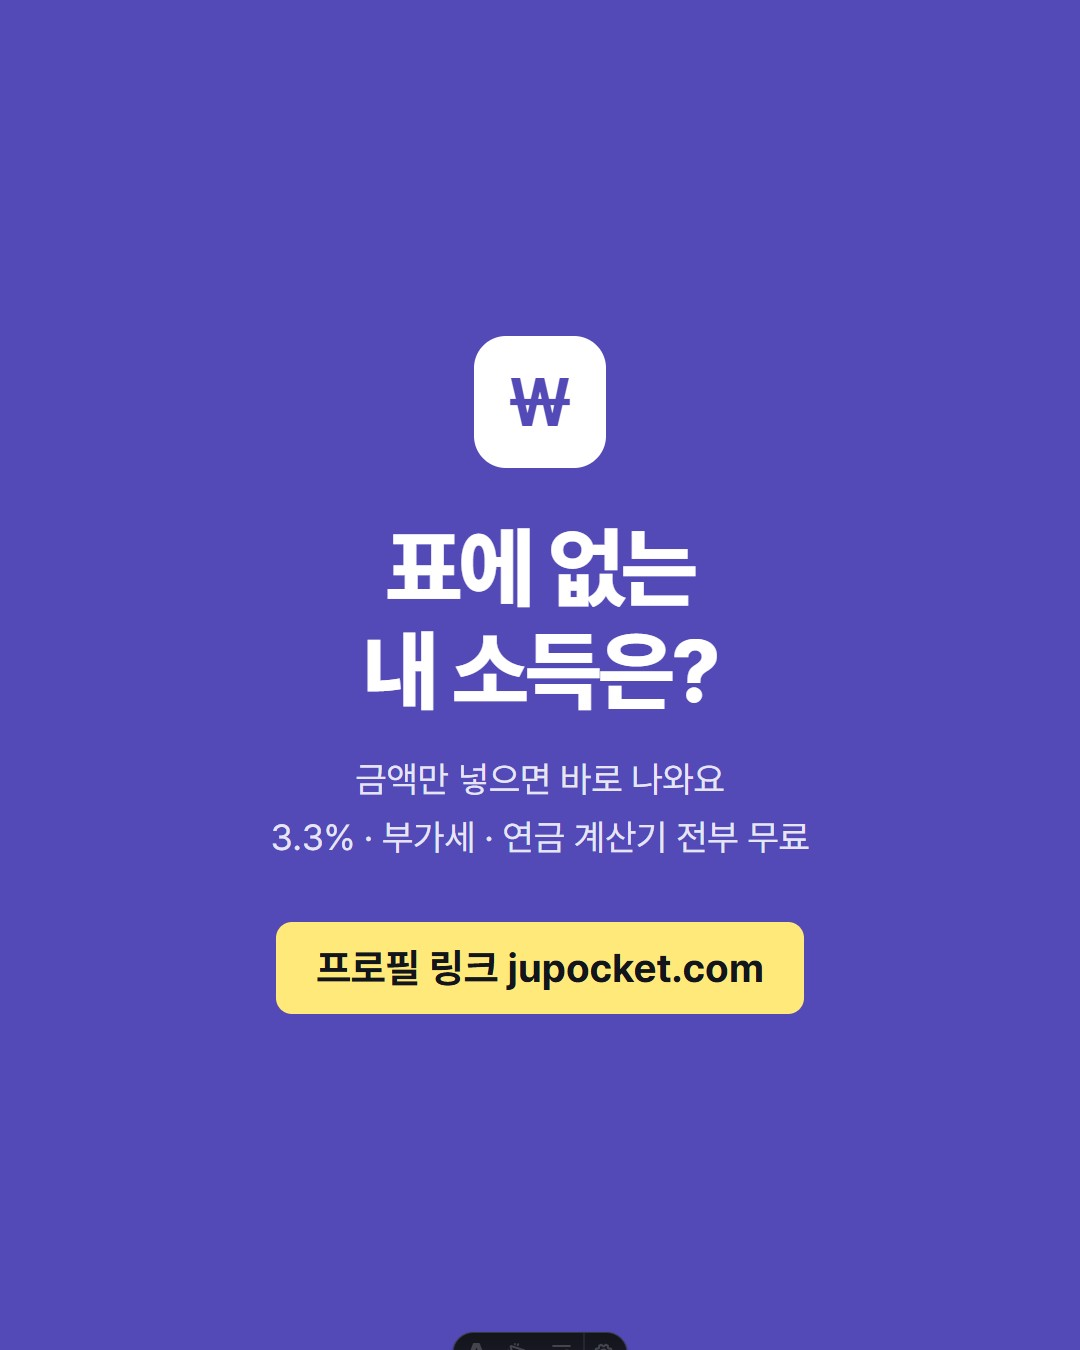
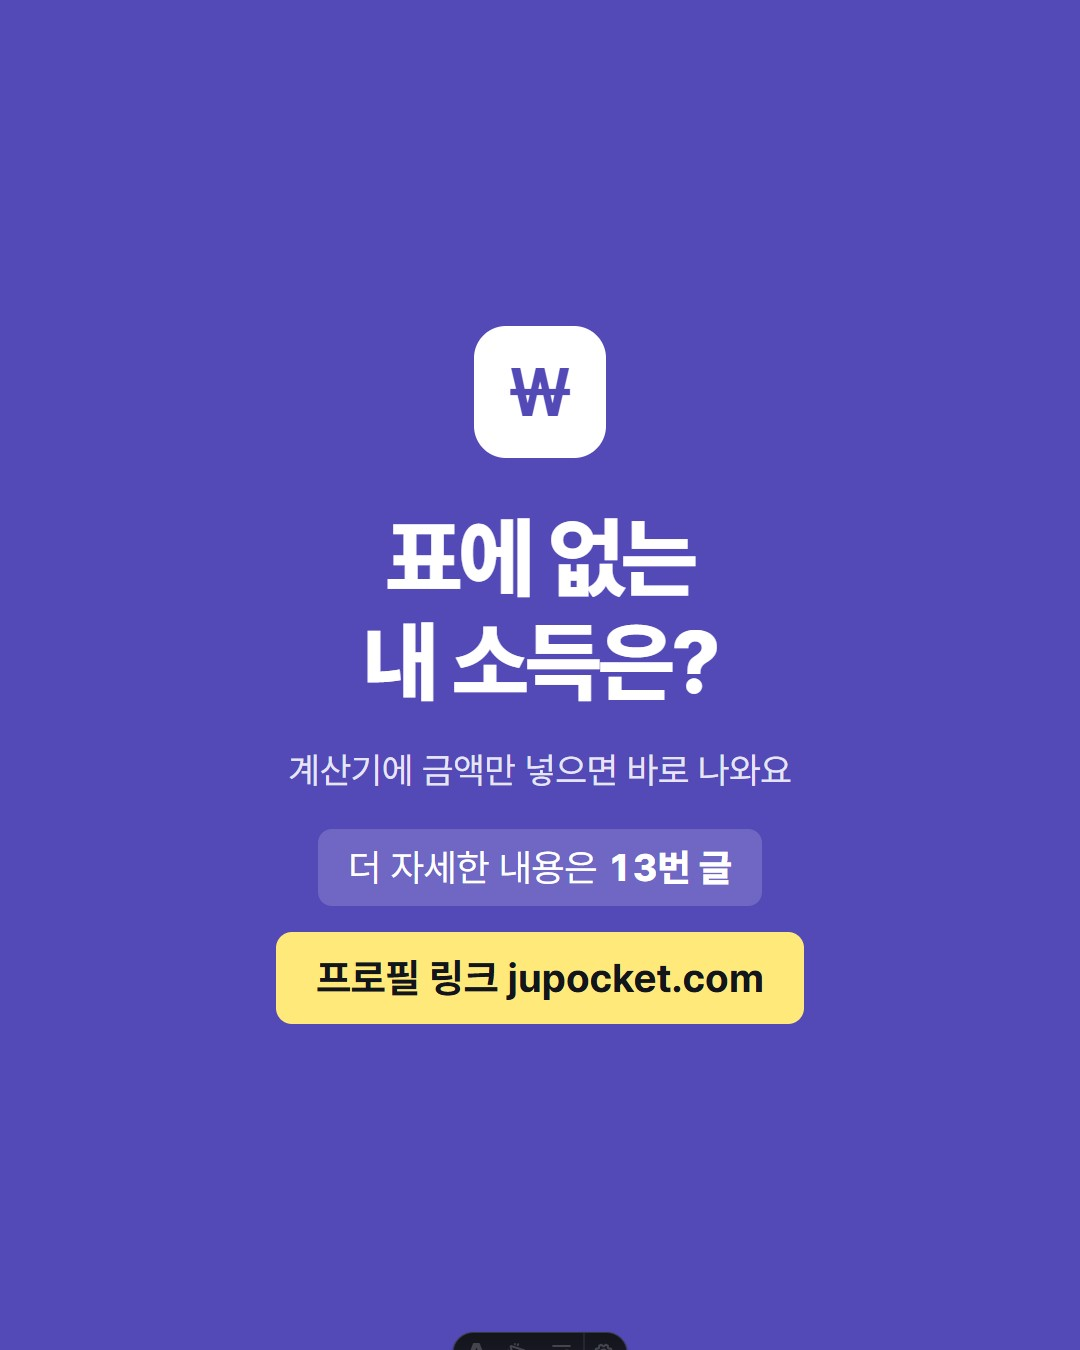
feat: 번호 링크 허브 + 카드가 글 번호를 지목
인스타 카드가 "더 자세한 내용은 13번 글"이라고 지목하면, 프로필 링크로
들어온 사람이 /link/ 에서 그 번호를 찾아 누른다.

핵심은 번호가 절대 안 바뀌는 것이다. 카드는 이미 발행돼 회수할 수 없으므로
번호를 재정렬하거나 재사용하면 예전 카드가 엉뚱한 글을 가리키게 된다.
그래서 번호를 data/linkhub.ts 에 명시로 박고, 테스트로 지킨다:
중복 금지, clusters 와의 정합, 새 글을 추가하면 번호를 받을 때까지 실패.
refNo 가 없는 번호를 가리키면 카드 테스트가 깨진다.

/link/:
- 모바일 우선. 탭 높이 60px, 가로 넘침 0(375px 검증).
- 번호 배지를 주제 색으로 물들여 눈으로 훑기 쉽게.
- noindex, follow + 사이트맵 제외 — 검색용이 아니라 유입 착지용이라
  홈과 브랜드 검색어를 두고 경쟁시킬 이유가 없다.
- 광고 없음. 인스타에서 막 넘어온 첫 화면이라 글로 넘어가는 걸
  방해하지 않는 편이 낫다.

대비 실측: 다크 13.16:1, 라이트 16.22:1(라벨) / 6.2:1(배지) — AA 통과.
처음엔 존재하지 않는 CSS 변수(--card·--surface-2)를 써서 다크에서 흰 카드에
밝은 글씨가 나왔다. 실제 변수(--text·--accent-bg·--rule)로 교정했다.

테스트 109 → 137.

diff --git a/src/data/linkhub.ts b/src/data/linkhub.ts
@@ -1,0 +1,59 @@
+/**
+ * 프로필 링크 허브(링크트리형)의 번호표.
+ *
+ * ⚠ 번호는 절대 바꾸지 않는다. 인스타 카드에 "더 자세한 내용은 13번 글"
+ * 이라고 박혀서 나가는데, 그 카드는 이미 발행돼 회수할 수 없다. 번호를
+ * 재정렬하거나 재사용하면 예전 카드가 엉뚱한 글을 가리키게 된다.
+ *
+ * 규칙:
+ *  - 새 글은 항상 다음 번호를 받는다 (현재 최대 + 1)
+ *  - 글을 내려도 그 번호는 비워 둔다 — 다른 글에 물려주지 않는다
+ *  - 정렬 순서와 번호는 별개다. 화면 순서는 order 로 바꾸고 no 는 둔다
+ *
+ * clusters.ts 가 링크의 원본이고, 여기는 번호만 얹는다. 둘이 어긋나면
+ * lib/__tests__/linkhub.test.ts 가 깨진다.
+ */
+
+export interface HubEntry {
+  /** 고정 번호. 한 번 정하면 바뀌지 않는다. */
+  no: number;
+  href: string;
+  /** 허브에서만 쓰는 짧은 제목. 목록에서 길면 못 읽는다. */
+  label: string;
+  kind: "calc" | "guide";
+}
+
+export const hubEntries: HubEntry[] = [
+  { no: 1, href: "/freelancer-33/", label: "프리랜서 3.3% 계산기", kind: "calc" },
+  { no: 2, href: "/withholding/", label: "원천징수 계산기 (3.3%·8.8%)", kind: "calc" },
+  { no: 3, href: "/income-tax-refund/", label: "종소세 환급 예상 계산기", kind: "calc" },
+  { no: 4, href: "/vat/", label: "부가세 계산기", kind: "calc" },
+  { no: 5, href: "/national-pension-premium/", label: "국민연금 보험료 계산기", kind: "calc" },
+
+  { no: 6, href: "/guide/33-settlement/", label: "3.3%는 종합소득세에서 정산됩니다", kind: "guide" },
+  { no: 7, href: "/guide/who-must-file/", label: "종합소득세 신고 대상, 나는 해야 하나", kind: "guide" },
+  { no: 8, href: "/guide/income-tax-brackets/", label: "종합소득세 세율 구간 (2026)", kind: "guide" },
+  { no: 9, href: "/guide/expense-rate/", label: "단순경비율 vs 기준경비율", kind: "guide" },
+  { no: 10, href: "/guide/vat-freelancer/", label: "프리랜서도 부가세를 내야 하나요?", kind: "guide" },
+  { no: 11, href: "/guide/simplified-vat/", label: "간이과세 vs 일반과세, 뭐가 유리한가", kind: "guide" },
+  { no: 12, href: "/guide/vat-filing/", label: "부가세 신고, 언제 어떻게 하나", kind: "guide" },
+  { no: 13, href: "/guide/pension-premium-2026/", label: "2026년 국민연금 보험료, 얼마 내나", kind: "guide" },
+  { no: 14, href: "/guide/retirement-planning/", label: "프리랜서 노후대비, 순서대로", kind: "guide" },
+  { no: 15, href: "/guide/national-pension-estimate/", label: "국민연금 예상수령액과 수령 시점", kind: "guide" },
+  { no: 16, href: "/guide/pension-savings-tax-credit/", label: "연금저축·IRP 세액공제 한도 (2026)", kind: "guide" },
+  { no: 17, href: "/guide/irp-account/", label: "IRP란? 프리랜서도 열 수 있는 계좌", kind: "guide" },
+  { no: 18, href: "/guide/retirement-fund/", label: "노후자금 얼마 있어야 하나", kind: "guide" },
+  { no: 19, href: "/guide/severance-to-freelance/", label: "퇴사하고 프리랜서 시작할 때", kind: "guide" },
+];
+
+/** 다음에 쓸 번호. 새 글을 추가할 때 이 값을 쓴다. */
+export function nextNo(): number {
+  return Math.max(...hubEntries.map((e) => e.no)) + 1;
+}
+
+export function entryByNo(no: number): HubEntry | undefined {
+  return hubEntries.find((e) => e.no === no);
+}
+
+export const calcEntries = hubEntries.filter((e) => e.kind === "calc");
+export const guideEntries = hubEntries.filter((e) => e.kind === "guide");

diff --git a/src/lib/__tests__/linkhub.test.ts b/src/lib/__tests__/linkhub.test.ts
@@ -1,0 +1,65 @@
+/**
+ * 번호표가 깨지지 않는지 지킨다.
+ *
+ * 발행된 카드가 "13번 글"을 가리키고 있는데 13번이 다른 글이 되면 그 카드는
+ * 거짓말이 된다. 회수할 수 없으므로 여기서 막는다.
+ */
+import { describe, it, expect } from "vitest";
+import { hubEntries, nextNo, entryByNo } from "../../data/linkhub";
+import { clusters } from "../../data/clusters";
+
+const clusterHrefs = clusters.flatMap((c) => c.links.map((l) => l.href));
+
+describe("번호표", () => {
+  it("번호가 중복되지 않는다", () => {
+    const nos = hubEntries.map((e) => e.no);
+    expect(new Set(nos).size).toBe(nos.length);
+  });
+
+  it("주소가 중복되지 않는다", () => {
+    const hrefs = hubEntries.map((e) => e.href);
+    expect(new Set(hrefs).size).toBe(hrefs.length);
+  });
+
+  it("번호는 모두 1 이상의 정수다", () => {
+    for (const e of hubEntries) {
+      expect(Number.isInteger(e.no)).toBe(true);
+      expect(e.no).toBeGreaterThan(0);
+    }
+  });
+
+  it("nextNo 는 아직 아무도 쓰지 않은 번호를 준다", () => {
+    expect(entryByNo(nextNo())).toBeUndefined();
+  });
+});
+
+describe("clusters 와의 정합", () => {
+  it("허브의 모든 주소가 clusters 에 실제로 있다", () => {
+    for (const e of hubEntries) {
+      expect(clusterHrefs).toContain(e.href);
+    }
+  });
+
+  it("clusters 의 모든 글이 번호를 받았다 — 새 글을 추가하면 여기서 깨진다", () => {
+    const hubHrefs = hubEntries.map((e) => e.href);
+    const missing = clusterHrefs.filter((h) => !hubHrefs.includes(h));
+    expect(missing).toEqual([]);
+  });
+
+  it("kind 가 clusters 와 일치한다", () => {
+    for (const e of hubEntries) {
+      const link = clusters
+        .flatMap((c) => c.links)
+        .find((l) => l.href === e.href);
+      expect(link?.kind).toBe(e.kind);
+    }
+  });
+});
+
+describe("표시용 라벨", () => {
+  it.each(hubEntries)("$no · 라벨이 비어 있지 않고 30자 이내다", (e) => {
+    expect(e.label.length).toBeGreaterThan(0);
+    // 모바일 한 줄에 안 들어가면 번호를 찾기 어려워진다.
+    expect(e.label.length).toBeLessThanOrEqual(30);
+  });
+});

diff --git a/src/lib/__tests__/cards.test.ts b/src/lib/__tests__/cards.test.ts
@@ -9,6 +9,7 @@ import { describe, it, expect } from "vitest";
 import { cardSets, cardSetBySlug } from "../../data/cards";
 import { compute } from "../pension-premium";
 import { parseMarkup } from "../card-markup";
+import { entryByNo } from "../../data/linkhub";
 import rates from "../../rates/pension-premium-2026.json";
 
 /** "28만 5,000원" 같은 표기를 숫자로 되돌린다. */
@@ -98,5 +99,22 @@ describe("모든 카드 세트 공통", () => {
         expect(rendered).not.toMatch(/\[\[|\]\]|\{\{|\}\}/);
       }
     }
+  });
+});
+
+describe("카드가 지목하는 번호", () => {
+  it("refNo 는 허브에 실제로 있는 번호다 — 없는 번호를 가리키면 독자가 길을 잃는다", () => {
+    for (const set of cardSets) {
+      for (const card of set.cards) {
+        if (card.kind !== "cta" || card.refNo === undefined) continue;
+        expect(entryByNo(card.refNo)).toBeDefined();
+      }
+    }
+  });
+
+  it("pension-2026 은 국민연금 보험료 글을 가리킨다", () => {
+    const cta = cardSetBySlug("pension-2026")!.cards.find((c) => c.kind === "cta");
+    if (cta?.kind !== "cta") throw new Error("cta 없음");
+    expect(entryByNo(cta.refNo!)?.href).toBe("/guide/pension-premium-2026/");
   });
 });

diff --git a/src/data/cards.ts b/src/data/cards.ts
@@ -42,6 +42,9 @@ export interface CtaCard {
   kind: "cta";
   title: string;
   sub: string;
+  /** 프로필 링크 허브(data/linkhub.ts)의 번호. 카드가 "13번 글"이라고
+   *  지목하면 독자가 허브에서 그 번호를 찾는다. 번호는 고정이라 안전하다. */
+  refNo?: number;
 }
 
 export type Card = ListCard | TableCard | NoteCard | CtaCard;
@@ -111,7 +114,8 @@ export const cardSets: CardSet[] = [
       {
         kind: "cta",
         title: "표에 없는\n내 소득은?",
-        sub: "금액만 넣으면 바로 나와요\n3.3% · 부가세 · 연금 계산기 전부 무료",
+        sub: "계산기에 금액만 넣으면 바로 나와요",
+        refNo: 13,
       },
     ],
   },
